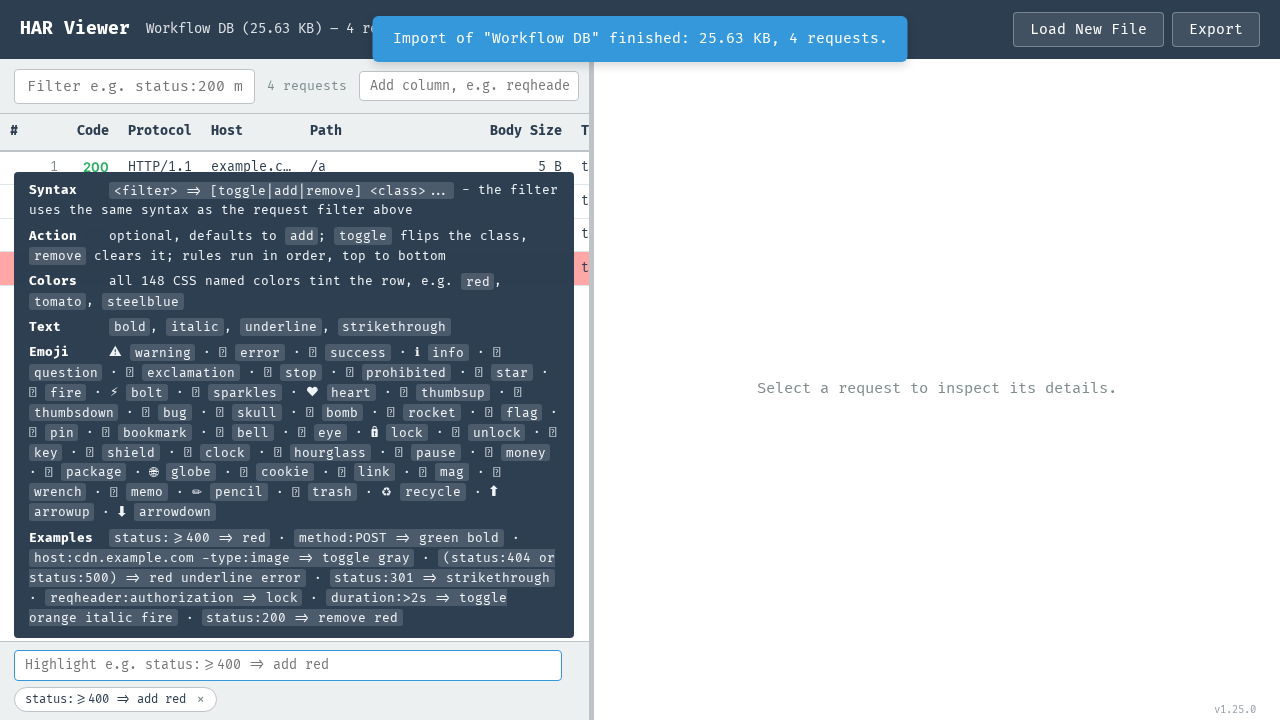
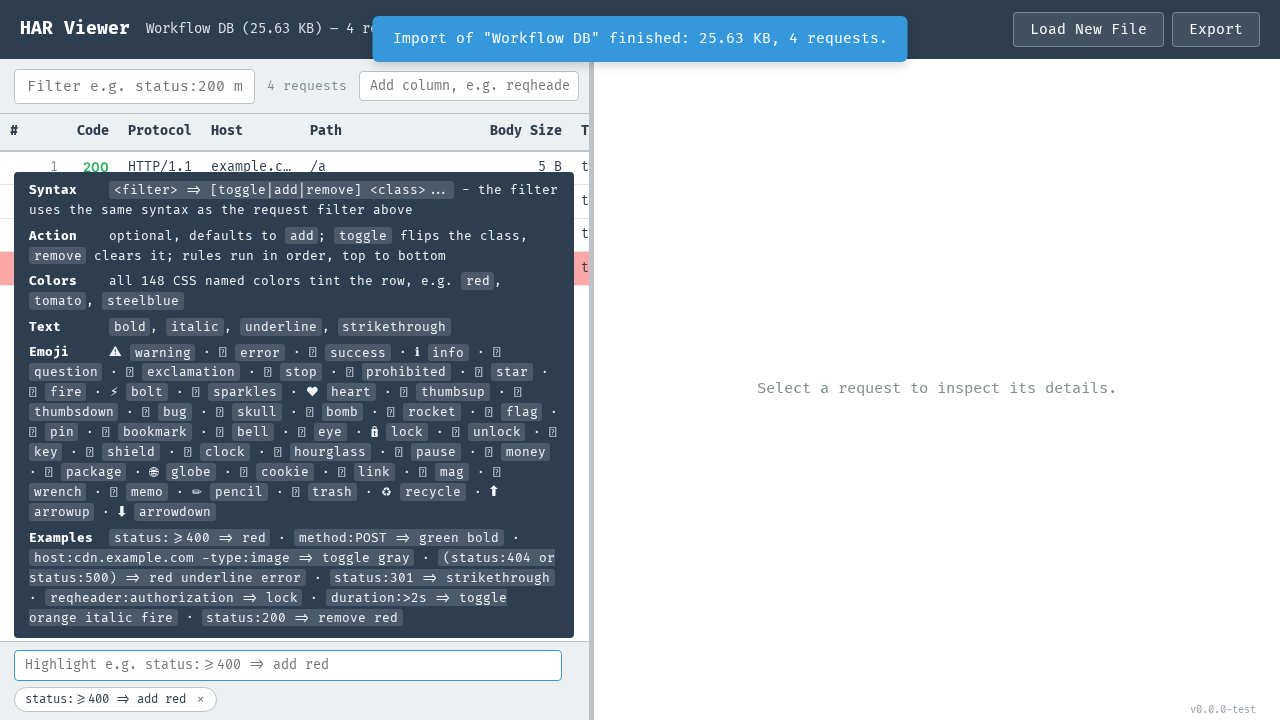
Add end-of-task screenshot hook with tolerant screenshot comparison
- E2E screenshots use a dummy app version and a fixed import time, so version bumps and timestamps do not change the PNGs.
- Screenshot helper waits for the filter spinner to hide, disables animations and hides the caret before capturing.
- A new image is written only when more than 0.5% of pixels differ (pixelmatch, threshold 0.1), so render noise does not rewrite the files.
- Add ui-screenshots hook (Claude Code Stop, Copilot CLI sessionEnd) that regenerates the screenshots at the end of a task when UI sources change.
- Add pixelmatch and pngjs as dev dependencies.

diff --git a/tests/e2e/workflow.spec.ts b/tests/e2e/workflow.spec.ts
@@ -3,16 +3,51 @@
 // Run with `npm run test:e2e`. Nothing is uploaded: the fixture is generated
 // in the test and handed to the file input.
 import { test, expect, type Page } from '@playwright/test';
-import { mkdirSync, readFileSync } from 'node:fs';
+import { existsSync, mkdirSync, readFileSync, writeFileSync } from 'node:fs';
 import { resolve } from 'node:path';
+import { PNG } from 'pngjs';
+import pixelmatch from 'pixelmatch';
 
 const DB_NAME = 'Workflow DB';
 const DB_COMMENT = 'e2e comment';
 
+// Fixed clock, so the file/last-used times in the screenshots do not change per run.
+const FIXED_NOW = new Date('2024-06-01T12:00:00.000Z');
+// Dummy app version shown in screenshots, so a version bump does not change the PNGs.
+const DUMMY_VERSION = 'v0.0.0-test';
+
 // Screenshots taken during the run; README.md and CLAUDE.md reference them.
 const SHOT_DIR = resolve(__dirname, '../../docs/screenshots');
 mkdirSync(SHOT_DIR, { recursive: true });
-const shot = (page: Page, file: string) => page.screenshot({ path: resolve(SHOT_DIR, file) });
+
+// Pixel comparison with tolerance: rendering noise (anti-aliasing, 1-2 px jitter) is ignored.
+// A new image is only written when more than MAX_DIFF_RATIO of the pixels differ.
+const PIXEL_THRESHOLD = 0.1; // per-pixel colour distance (pixelmatch, 0..1)
+const MAX_DIFF_RATIO = 0.005; // up to 0.5 % of the pixels may differ
+
+const sameImage = (existing: Buffer, next: Buffer): boolean => {
+  const a = PNG.sync.read(existing);
+  const b = PNG.sync.read(next);
+  if (a.width !== b.width || a.height !== b.height) return false;
+  const differing = pixelmatch(a.data, b.data, undefined, a.width, a.height, { threshold: PIXEL_THRESHOLD });
+  return differing / (a.width * a.height) <= MAX_DIFF_RATIO;
+};
+
+// Saves a screenshot only if it differs visibly from the existing file, so unchanged
+// screens leave docs/screenshots untouched.
+const shot = async (page: Page, file: string) => {
+  // The filter/loading spinner rotates forever; wait until it is hidden so it never lands in a PNG.
+  await expect(page.locator('#filter-busy')).toBeHidden();
+  await page.evaluate((version) => {
+    const el = document.getElementById('app-version');
+    if (el) el.textContent = version;
+  }, DUMMY_VERSION);
+  const path = resolve(SHOT_DIR, file);
+  // Finish CSS animations and hide the blinking text caret so every run captures the same frame.
+  const png = await page.screenshot({ animations: 'disabled', caret: 'hide' });
+  if (existsSync(path) && sameImage(readFileSync(path), png)) return;
+  writeFileSync(path, png);
+};
 
 // A small HAR with GET/POST requests and request/response bodies of varying size.
 const fixtureHar = () => {
@@ -71,8 +106,19 @@ const rows = (page: Page) => page.locator('#requests-table-body tr[data-entry-id
 const dbRow = (page: Page, name: string) => page.locator('li.db-row', { hasText: name });
 
 // Dropping a file runs the import; the name/comment dialog appears once it is read.
+// The file is built in the page with a fixed lastModified: Playwright would stamp the real time,
+// which the app shows as the import time in the database list.
 const importFile = async (page: Page, file: { name: string; buffer: Buffer }) => {
-  await page.locator('#har-file-input').setInputFiles({ name: file.name, mimeType: 'application/json', buffer: file.buffer });
+  await page.evaluate(
+    ({ name, bytes, lastModified }) => {
+      const input = document.getElementById('har-file-input') as HTMLInputElement;
+      const dt = new DataTransfer();
+      dt.items.add(new File([new Uint8Array(bytes)], name, { type: 'application/json', lastModified }));
+      input.files = dt.files;
+      input.dispatchEvent(new Event('change', { bubbles: true }));
+    },
+    { name: file.name, bytes: [...file.buffer], lastModified: FIXED_NOW.getTime() },
+  );
 };
 
 const answerNameDialog = async (page: Page, name: string, comment: string) => {
@@ -87,6 +133,7 @@ const answerNameDialog = async (page: Page, name: string, comment: string) => {
 
 test.describe('HAR viewer workflow', () => {
   test('import, inspect, filter, highlight, export, reload and delete a database', async ({ page }) => {
+    await page.clock.setFixedTime(FIXED_NOW);
     await page.goto('/');
     await expect(page.locator('#drop-screen')).toBeVisible();
 
@@ -175,6 +222,7 @@ test.describe('HAR viewer workflow', () => {
   });
 
   test('reports a file that is not valid JSON and keeps it as an incomplete database', async ({ page }) => {
+    await page.clock.setFixedTime(FIXED_NOW);
     await page.goto('/');
     await importFile(page, { name: 'broken.har', buffer: Buffer.from('this is not json') });
 

diff --git a/CLAUDE.md b/CLAUDE.md
@@ -25,6 +25,14 @@ section yet, it prompts the agent to update `CHANGELOG.md`, `README.md` and
 `CLAUDE.md`. Bumps made outside the agent's edit tools (e.g. `npm version minor`)
 do not trigger it.
 
+An end-of-task hook (`.github/hooks/ui-screenshots.mjs`; Claude Code `Stop` in
+`.claude/settings.json`, Copilot CLI `sessionEnd` in `.github/hooks/ui-screenshots.json`)
+runs once the task ends. If `src/**` or `index.html` has uncommitted changes, it runs the
+Playwright workflow test (`npx playwright test tests/e2e`), which regenerates
+`docs/screenshots/*.png`. If any image changed, or the test failed, Claude Code is
+asked to review the images and update the Screenshots section of `README.md` and the
+screenshot table in this file. It stays silent when nothing changed.
+
 ## Project Overview
 
 This is a client-side HTTP Archive (HAR) viewer inspired by Fiddler. A user
